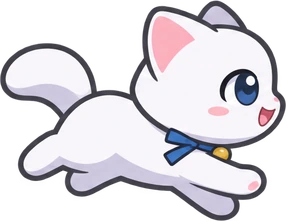
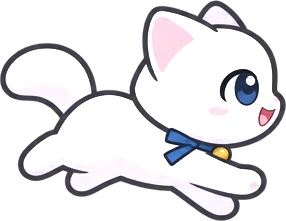
표정 바뀔 때 화면 밝기가 튀던 것 고침(영상 첫 장면 색에 맞춘 그림·표정 조각), 한울냥 흰색을 밝게
Claude-Session: https://claude.ai/code/session_01B8pQbEtRSQUAPjrPy7M14y

diff --git a/face.js b/face.js
@@ -34,9 +34,12 @@ function setFor() {
   cur = (base && code && FACES[code] && FACES[code][base]) || null;
   if (!cur) { hideAll(); return; }
   // 미리 받아 둔다 (바꿀 때 깜빡이지 않게)
-  Object.values(cur.faces).forEach(f => { const i = new Image(); i.src = f.img; });
-  if (video) { const i = new Image(); i.src = base; }
+  Object.values(cur.faces).forEach(f => { const i = new Image(); i.src = faceImg(f); });
+  if (video) { const i = new Image(); i.src = stillImg(); }
 }
+// 영상 장면에서는 색을 영상에 맞춘 판을 쓴다 (없으면 원래 것)
+const stillImg = () => (video && cur && cur.vstill) || base;
+const faceImg = f => (video && f.img_v) || f.img;
 function hideAll() {
   const was = showing && video && still.classList.contains('on');
   showing = ''; layers.forEach(l => l.classList.remove('on'));
@@ -75,7 +78,7 @@ function show(expr) {
   if (expr === showing) return;
   showing = expr;
   if (video) {
-    if (still.getAttribute('src') !== base) still.src = base;
+    if (still.getAttribute('src') !== stillImg()) still.src = stillImg();
     still.style.objectPosition = $('bgv').style.objectPosition;
     still.classList.add('on');
   }
@@ -84,7 +87,7 @@ function show(expr) {
   place(expr, l);
   const swap = () => { if (showing !== expr) return; l.classList.add('on'); old.classList.remove('on'); front = next; };
   clearTimeout(showT);
-  if (l.getAttribute('src') !== f.img) { l.src = f.img; (l.decode ? l.decode() : Promise.resolve()).then(swap, swap); }
+  if (l.getAttribute('src') !== faceImg(f)) { l.src = faceImg(f); (l.decode ? l.decode() : Promise.resolve()).then(swap, swap); }
   else showT = setTimeout(swap, 0);
 }
 // 감정 → 표정 (잠깐 보였다가 원래 얼굴로)

diff --git a/sw.js b/sw.js
@@ -1,5 +1,5 @@
 // 한울아파트 — 서비스 워커. 앱 파일을 바꿔서 올릴 때마다 V를 1 올린다.
-const V = 'hanul-v25';
+const V = 'hanul-v26';
 const SHELL = ['./', 'index.html', 'style.css', 'app.js', 'features.js', 'study.js', 'plan.js', 'music.js', 'device.js', 'idle.js', 'voice.js', 'motion.js', 'face.js', 'neko.js', 'assets/ui/neko/sprites.json', 'data/faces.json', 'plan.html', 'plan.json', 'data/characters.json', 'manifest.json', 'icon-192.png', 'icon-512.png', 'assets/ui/elevator.webp', 'assets/ui/elevator-wide.webp'];
 self.addEventListener('install', e => { e.waitUntil(caches.open(V).then(c => c.addAll(SHELL)).catch(() => {})); self.skipWaiting(); });
 self.addEventListener('activate', e => { e.waitUntil(caches.keys().then(ks => Promise.all(ks.filter(k => k !== V).map(k => caches.delete(k)))).then(() => self.clients.claim())); });

diff --git a/tools/build_faces.py b/tools/build_faces.py
@@ -1,10 +1,48 @@
 """표정 조각 목록 만들기: characters/prompts/<코드>-face-<장면>-<표정>.json → data/faces.json
 앱(face.js)이 이 목록을 보고 장면 그림 위에 표정 조각을 겹친다.
+
+장면에 반복 영상(<그림>.mp4)이 있으면, 영상 위에 잠깐 덮는 원래 그림과 표정 조각의 색을
+영상 첫 장면에 맞춘 판(…-v.webp)도 만든다. 영상과 그림의 밝기·색이 조금 달라서
+표정이 바뀔 때 화면이 어두워지거나 밝아지는 걸 막는다.
   python3 tools/build_faces.py
 """
 import glob, json, os
+import numpy as np
 from PIL import Image
 ROOT = os.path.dirname(os.path.dirname(os.path.abspath(__file__)))
+
+
+def video_frame(mp4):
+    import cv2
+    v = cv2.VideoCapture(mp4); ok, f = v.read()
+    return cv2.cvtColor(f, cv2.COLOR_BGR2RGB) if ok else None
+
+
+def luts(still, frame):
+    """원래 그림(영상과 같은 방식으로 꽉 채워 자른 것) → 영상 첫 장면, 채널마다 색 맞춤표(0~255)."""
+    H, W = frame.shape[:2]
+    k = max(W / still.width, H / still.height)
+    s = still.resize((round(still.width * k), round(still.height * k)), Image.LANCZOS)
+    x, y = (s.width - W) // 2, (s.height - H) // 2
+    a = np.asarray(s.crop((x, y, x + W, y + H)).convert('RGB'))
+    out = []
+    for c in range(3):
+        src = np.sort(a[..., c].ravel()); dst = np.sort(frame[..., c].ravel())
+        q = np.linspace(0, len(src) - 1, 257).astype(int)
+        xs, ys = src[q].astype(float), dst[q].astype(float)
+        xs, idx = np.unique(xs, return_index=True); ys = ys[idx]
+        lut = np.interp(np.arange(256), xs, ys)
+        out.append(np.clip(lut, 0, 255).astype(np.uint8))
+    return out
+
+
+def apply(im, lut):
+    a = np.asarray(im).copy()
+    for c in range(3):
+        a[..., c] = lut[c][a[..., c]]
+    return Image.fromarray(a)
+
+
 out = {}
 for p in sorted(glob.glob(os.path.join(ROOT, 'characters', 'prompts', '*-face-*.json'))):
     m = json.load(open(p, encoding='utf-8'))
@@ -16,5 +54,27 @@ for p in sorted(glob.glob(os.path.join(ROOT, 'characters', 'prompts', '*-face-*.
     w, h = Image.open(os.path.join(ROOT, base)).size
     s = out.setdefault(code, {}).setdefault(base, {'w': w, 'h': h, 'faces': {}})
     s['faces'][expr] = {'img': f'assets/{code}/face/{scene}-{expr}.webp', **m['patch']}
+
+# 영상이 있는 장면: 색을 영상에 맞춘 그림·조각
+for code, scenes in out.items():
+    for base, s in scenes.items():
+        mp4 = os.path.join(ROOT, base[:-5] + '.mp4')
+        if not os.path.exists(mp4):
+            continue
+        frame = video_frame(mp4)
+        if frame is None:
+            continue
+        still = Image.open(os.path.join(ROOT, base)).convert('RGB')
+        lut = luts(still, frame)
+        vs = base[:-5] + '-v.webp'
+        apply(still, lut).save(os.path.join(ROOT, vs), 'WEBP', quality=88, method=6)
+        s['vstill'] = vs
+        for expr, f in s['faces'].items():
+            pim = Image.open(os.path.join(ROOT, f['img'])).convert('RGBA')
+            rgb = apply(pim.convert('RGB'), lut).convert('RGBA'); rgb.putalpha(pim.getchannel('A'))
+            iv = f['img'][:-5] + '-v.webp'
+            rgb.save(os.path.join(ROOT, iv), 'WEBP', quality=90, method=6)
+            f['img_v'] = iv
+
 json.dump(out, open(os.path.join(ROOT, 'data', 'faces.json'), 'w', encoding='utf-8'), ensure_ascii=False, indent=1)
-print({c: {b: sorted(v['faces']) for b, v in s.items()} for c, s in out.items()})
+print({c: {b: (sorted(v['faces']), 'video' if 'vstill' in v else '') for b, v in s.items()} for c, s in out.items()})
